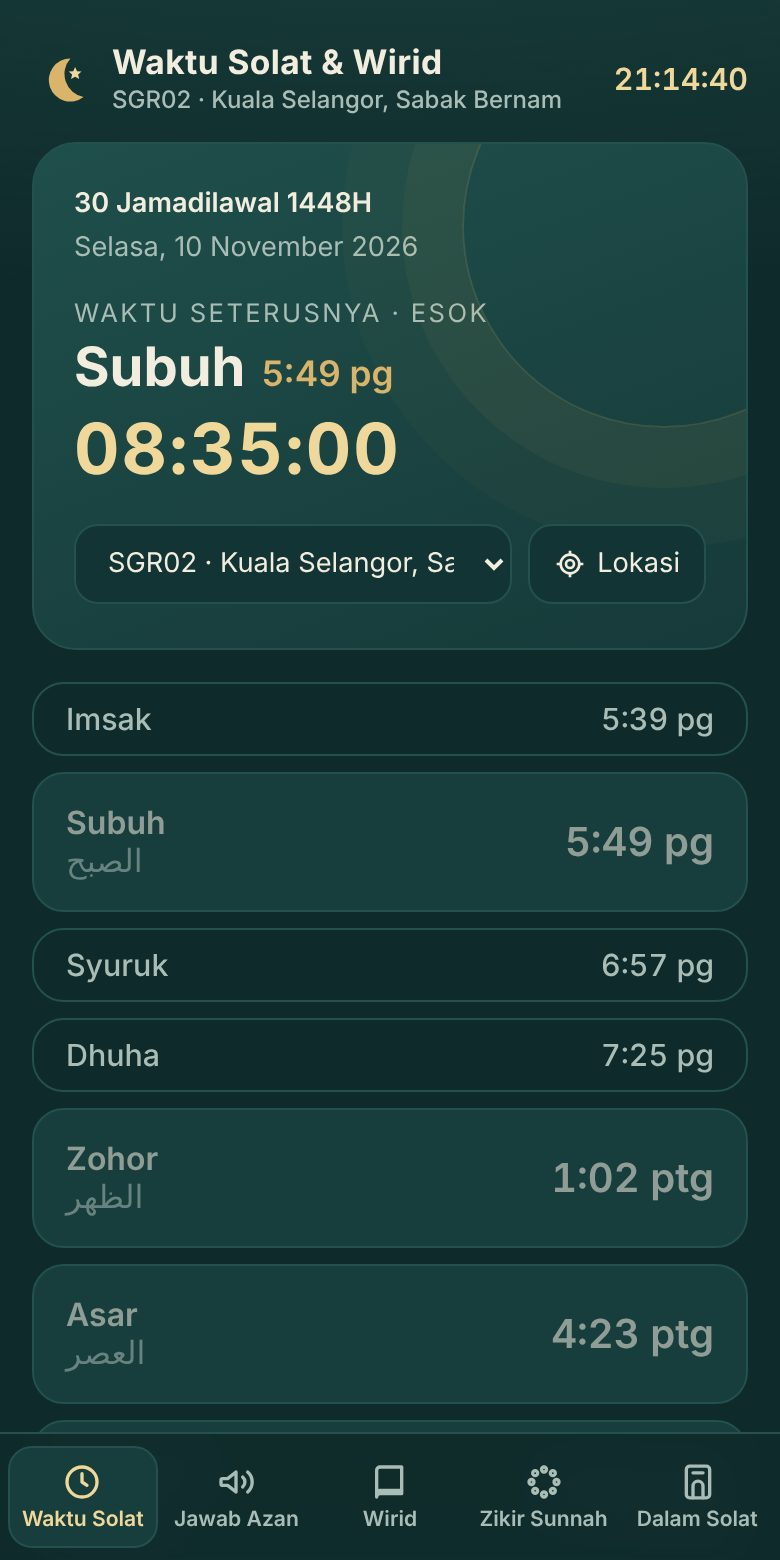
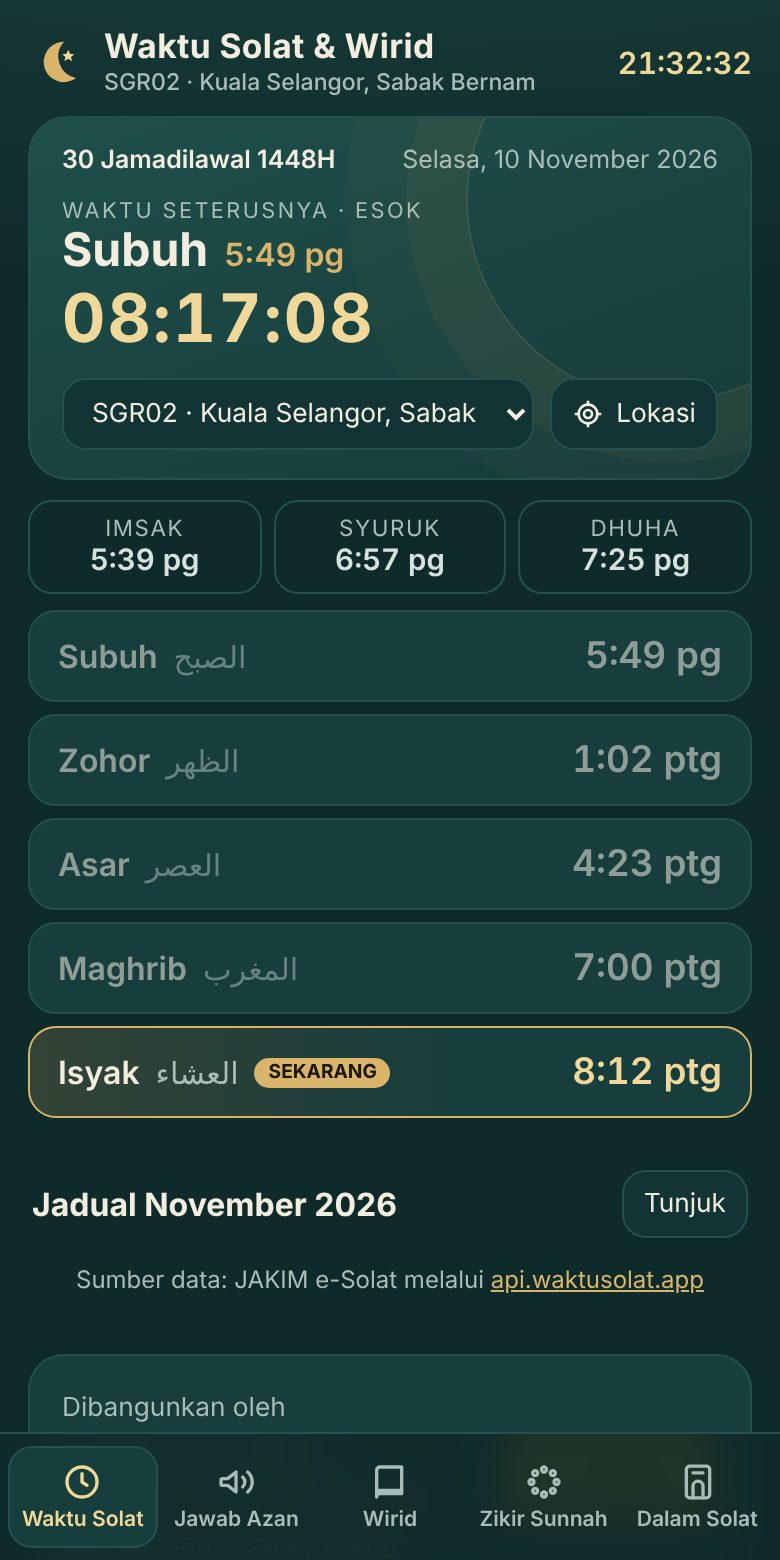
Paparan waktu solat padat: muat satu skrin telefon tanpa scroll
Claude-Session: https://claude.ai/code/session_01KuVRpJn8oEbx9nKeLkrpcn

diff --git a/app/index.html b/app/index.html
@@ -24,27 +24,27 @@
 html,body{background:var(--bg);color:var(--ink);font-family:"Plus Jakarta Sans",system-ui,sans-serif;-webkit-tap-highlight-color:transparent}
 body{min-height:100vh;background:
   radial-gradient(1200px 500px at 50% -200px,#1d4a47 0%,transparent 70%),var(--bg)}
-.wrap{max-width:720px;margin:0 auto;padding:16px 16px 96px}
-header{display:flex;align-items:center;justify-content:space-between;gap:12px;padding:6px 0 14px}
+.wrap{max-width:720px;margin:0 auto;padding:10px 14px 90px}
+header{display:flex;align-items:center;justify-content:space-between;gap:12px;padding:4px 0 10px}
 .brand{display:flex;align-items:center;gap:10px}
-.brand svg{width:30px;height:30px}
+.brand svg{width:28px;height:28px;flex:none}
 .brand h1{font-size:1.05rem;font-weight:700;letter-spacing:.2px}
-.brand small{display:block;color:var(--muted);font-weight:500;font-size:.75rem}
+.brand small{display:block;color:var(--muted);font-weight:500;font-size:.72rem;white-space:nowrap;overflow:hidden;text-overflow:ellipsis;max-width:62vw}
 .clock{font-variant-numeric:tabular-nums;color:var(--gold2);font-weight:600;font-size:.95rem}
 
 .notice{display:none;background:#3a3218;border:1px solid #6b5a2a;color:#f3e2b4;padding:10px 12px;border-radius:12px;font-size:.82rem;margin-bottom:12px;line-height:1.45}
 .notice.show{display:block}
 
 /* hero */
-.hero{background:linear-gradient(160deg,#1f4f4b,#163a39);border:1px solid var(--line);border-radius:22px;padding:22px 20px;position:relative;overflow:hidden}
+.hero{background:linear-gradient(160deg,#1f4f4b,#163a39);border:1px solid var(--line);border-radius:20px;padding:14px 16px;position:relative;overflow:hidden}
 .hero::after{content:"";position:absolute;right:-60px;top:-60px;width:200px;height:200px;border-radius:50%;border:1px solid rgba(217,180,106,.18);box-shadow:0 0 0 30px rgba(217,180,106,.05),0 0 0 60px rgba(217,180,106,.03)}
-.dates{display:flex;justify-content:space-between;flex-wrap:wrap;gap:6px;color:var(--muted);font-size:.85rem}
+.dates{display:flex;justify-content:space-between;flex-wrap:wrap;gap:4px 8px;color:var(--muted);font-size:.78rem}
 .dates b{color:var(--ink);font-weight:600}
-.next-label{margin-top:18px;font-size:.8rem;color:var(--muted);text-transform:uppercase;letter-spacing:1.2px}
-.next-name{font-size:2rem;font-weight:700;margin-top:2px}
-.next-name span{color:var(--gold);font-weight:600;font-size:1.1rem;margin-left:8px}
-.countdown{font-size:2.6rem;font-weight:700;font-variant-numeric:tabular-nums;color:var(--gold2);letter-spacing:1px;margin-top:4px}
-.zone-row{display:flex;gap:8px;margin-top:16px;flex-wrap:wrap;position:relative;z-index:1}
+.next-label{margin-top:10px;font-size:.68rem;color:var(--muted);text-transform:uppercase;letter-spacing:1.2px}
+.next-name{font-size:1.45rem;font-weight:700;margin-top:0;line-height:1.2}
+.next-name span{color:var(--gold);font-weight:600;font-size:1rem;margin-left:8px}
+.countdown{font-size:2.3rem;font-weight:700;font-variant-numeric:tabular-nums;color:var(--gold2);letter-spacing:1px;line-height:1.1;margin-top:2px}
+.zone-row{display:flex;gap:8px;margin-top:10px;flex-wrap:wrap;position:relative;z-index:1}
 select,.btn{font:inherit;font-size:.85rem;border-radius:12px;border:1px solid var(--line);background:var(--bg2);color:var(--ink);padding:10px 12px}
 select{flex:1;min-width:0}
 .btn{cursor:pointer;display:inline-flex;align-items:center;gap:6px;white-space:nowrap}
@@ -52,17 +52,19 @@ select{flex:1;min-width:0}
 .btn.gold{background:var(--gold);color:#1b1608;border-color:var(--gold);font-weight:600}
 
 /* times */
-.times{margin-top:16px;display:grid;gap:8px}
-.t{display:flex;align-items:center;justify-content:space-between;background:var(--card);border:1px solid var(--line);border-radius:16px;padding:14px 16px}
-.t .n{font-weight:600}
-.t .n small{display:block;color:var(--muted);font-weight:400;font-size:.75rem;font-family:Amiri,serif;font-size:1rem}
-.t .v{font-variant-numeric:tabular-nums;font-size:1.25rem;font-weight:600}
-.t.minor{background:transparent;padding:8px 16px}
-.t.minor .n,.t.minor .v{color:var(--muted);font-size:.95rem;font-weight:500}
+.times{margin-top:10px;display:grid;gap:6px}
+.minor-row{display:grid;grid-template-columns:repeat(3,1fr);gap:6px;margin-bottom:2px}
+.mc{border:1px solid var(--line);border-radius:12px;padding:6px 10px;display:flex;flex-direction:column;align-items:center;line-height:1.3}
+.mc span{font-size:.7rem;color:var(--muted);text-transform:uppercase;letter-spacing:.8px}
+.mc b{font-size:.92rem;font-weight:600;font-variant-numeric:tabular-nums;color:#d7e2dd}
+.t{display:flex;align-items:center;justify-content:space-between;background:var(--card);border:1px solid var(--line);border-radius:14px;padding:9px 14px;min-height:46px}
+.t .n{font-weight:600;font-size:1rem;display:flex;align-items:baseline;gap:8px}
+.t .n small{color:var(--muted);font-weight:400;font-family:Amiri,serif;font-size:.95rem}
+.t .v{font-variant-numeric:tabular-nums;font-size:1.15rem;font-weight:600}
 .t.past .v,.t.past .n{opacity:.55}
 .t.now{border-color:var(--gold);background:linear-gradient(90deg,rgba(217,180,106,.18),var(--card) 60%)}
 .t.now .v{color:var(--gold2)}
-.t .tag{font-size:.68rem;background:var(--gold);color:#1b1608;padding:2px 8px;border-radius:99px;margin-left:8px;font-weight:700;vertical-align:middle}
+.t .tag{font-size:.6rem;background:var(--gold);color:#1b1608;padding:2px 7px;border-radius:99px;font-weight:700;align-self:center;font-family:inherit}
 
 .section-h{display:flex;justify-content:space-between;align-items:center;margin:26px 2px 10px}
 .section-h h2{font-size:1rem}
@@ -151,7 +153,11 @@ nav{gap:2px;padding:6px 4px calc(6px + env(safe-area-inset-bottom))}
 nav button{flex-direction:column;gap:3px;padding:7px 2px;font-size:.66rem;line-height:1.15;border-radius:12px;max-width:none;min-width:0}
 nav button span{white-space:nowrap;overflow:hidden;text-overflow:ellipsis;max-width:100%}
 nav svg{width:20px;height:20px}
-@media (max-width:420px){.countdown{font-size:2.2rem}.next-name{font-size:1.7rem}}
+@media (max-width:420px){.countdown{font-size:2.1rem}}
+#v-solat select,#v-solat .btn{padding:8px 10px;font-size:.82rem}
+/* telefon rendah (cth. iPhone SE) */
+@media (max-height:720px){.wrap{padding-top:6px}header{padding-bottom:6px}.hero{padding:12px 14px}.next-label{margin-top:6px}.countdown{font-size:1.9rem}.zone-row{margin-top:8px}.t{min-height:40px;padding:7px 12px}.t .v{font-size:1.05rem}.mc{padding:4px 8px}.times{gap:5px}}
+@media (max-height:600px){header{padding:0 0 4px}.brand h1{font-size:.95rem}.next-label{display:none}.dates{font-size:.72rem}.next-name{font-size:1.2rem;margin-top:6px}.countdown{font-size:1.7rem}.t{min-height:36px;padding:5px 12px}.mc b{font-size:.85rem}}
 </style>
 </head>
 <body>
@@ -399,11 +405,13 @@ function render(){
   const now=Date.now()/1000;
   let cur=null;for(const k of FARDU)if(t[k]&&t[k]<=now)cur=k;
   if(cur==='fajr'&&t.syuruk&&now>=t.syuruk)cur=null; // selepas syuruk tiada waktu fardu
-  $('times').innerHTML=ORDER.filter(([k])=>t[k]).map(([k,n,a,minor])=>{
-    const past=t[k]<=now&&k!==cur;
-    return `<div class="t ${minor?'minor':''} ${k===cur?'now':''} ${past&&!minor?'past':''}">
-      <div class="n">${n}${k===cur?'<span class="tag">SEKARANG</span>':''}${minor?'':`<small>${a}</small>`}</div>
-      <div class="v">${fmtTime(t[k])}</div></div>`}).join('');
+  const row=([k,n,a])=>{const past=t[k]<=now&&k!==cur;
+    return `<div class="t ${k===cur?'now':''} ${past?'past':''}">
+      <div class="n">${n}<small>${a}</small>${k===cur?'<span class="tag">SEKARANG</span>':''}</div>
+      <div class="v">${fmtTime(t[k])}</div></div>`};
+  const kecil=ORDER.filter(([k,,,m])=>m&&t[k]);
+  $('times').innerHTML=`<div class="minor-row">${kecil.map(([k,n])=>`<div class="mc"><span>${n}</span><b>${fmtTime(t[k])}</b></div>`).join('')}</div>`
+    +ORDER.filter(([k,,,m])=>!m&&t[k]).map(row).join('');
   renderMonth();tick();
 }
 

diff --git a/app/sw.js b/app/sw.js
@@ -1,5 +1,5 @@
 // Waktu Solat & Wirid — simpan fail app untuk kegunaan luar talian.
-const CACHE = 'wsw-v1.1.0';
+const CACHE = 'wsw-v1.1.1';
 const FAIL = ['./', './index.html', './manifest.json', './ikon-192.png', './ikon-512.png', './ikon-180.png', '../derma-qr.png'];
 
 self.addEventListener('install', e => {
